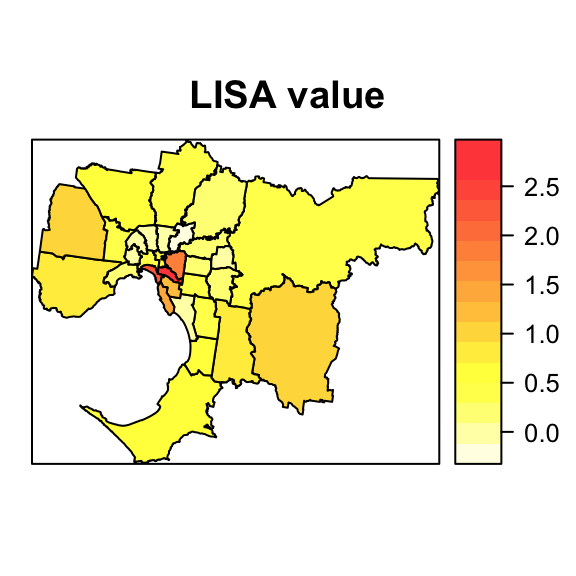
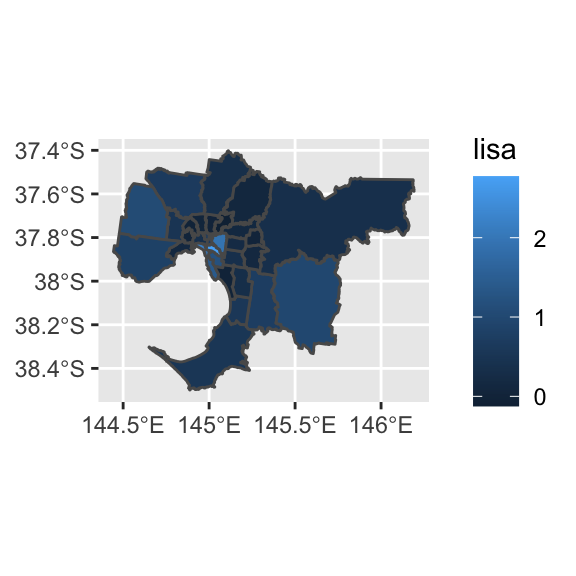
Dec 4th

diff --git a/Week5.html b/Week5.html
@@ -326,7 +326,6 @@ $(document).ready(function () {
 <li><a href="#create-weight-matrix"><span class="toc-section-number">2</span> Create Weight Matrix</a></li>
 <li><a href="#morans-i-test"><span class="toc-section-number">3</span> Moran’s I test</a></li>
 <li><a href="#lisa"><span class="toc-section-number">4</span> LISA</a></li>
-<li><a href="#practice-columbus-data"><span class="toc-section-number">5</span> Practice: Columbus Data</a></li>
 </ul>
 </div>
 
@@ -345,19 +344,18 @@ $(document).ready(function () {
 </div>
 <div id="create-weight-matrix" class="section level1">
 <h1><span class="header-section-number">2</span> Create Weight Matrix</h1>
-<p>The dataset <em>gmel2</em> is from Week 3 Lab, and it can be downloaded at <a href="https://github.com/TedChu/90122Lab/tree/master/datasets" class="uri">https://github.com/TedChu/90122Lab/tree/master/datasets</a>.</p>
-<pre class="r"><code>library(rgdal)
-library(spdep)
+<p>The dataset is <em>gmel2</em>, and it can be downloaded at <a href="https://github.com/TedChu/90122Lab/tree/master/datasets" class="uri">https://github.com/TedChu/90122Lab/tree/master/datasets</a>.</p>
+<pre class="r"><code>library(spdep)
 load(&quot;datasets/gmel2.Rdata&quot;)</code></pre>
 <p>R function <em>poly2nb</em> produces a spatial weight matrix from a SpatialPolygons(DataFrame) object.</p>
 <pre class="r"><code>## Convert gmel2 to SpatialPolygonsDataFrame, since the following packages require SpatialPolygonsDataFrame
-gmel2 = as(gmel2, &quot;Spatial&quot;)
-Wqueen = poly2nb(gmel2)
-Wrook = poly2nb(gmel2, queen=FALSE)
-plot(gmel2,border=&quot;grey60&quot;, axes=TRUE)
-plot(Wqueen, coordinates(gmel2), pch=19, cex=0.6, add=TRUE,col=&quot;red&quot;)
-plot(Wrook, coordinates(gmel2), pch=19, cex=0.6, add=TRUE)</code></pre>
-<p><img src="Week5_files/figure-html/unnamed-chunk-2-1.png" width="288" style="display: block; margin: auto;" /></p>
+gmel.sp = as(gmel2, &quot;Spatial&quot;)
+Wqueen = poly2nb(gmel.sp)
+Wrook = poly2nb(gmel.sp, queen=FALSE)
+plot(gmel.sp,border=&quot;grey60&quot;, axes=TRUE)
+plot(Wqueen, coordinates(gmel.sp), pch=19, cex=0.6, add=TRUE,col=&quot;red&quot;)
+plot(Wrook, coordinates(gmel.sp), pch=19, cex=0.6, add=TRUE)</code></pre>
+<p><img src="Week5_files/figure-html/unnamed-chunk-2-1.png" width="480" style="display: block; margin: auto;" /></p>
 <ul>
 <li>There are three potential class for spatial weight matrix: <em>nb</em> (neighborhood) class, <em>mat</em> (matrix) class, and <em>listw</em> class.
 <ul>
@@ -425,50 +423,21 @@ round(head(resI),3)</code></pre>
 </ul>
 <p> </p>
 <p>Next, some visualisation for the above results.</p>
-<pre class="r"><code>gmellisa = gmel2
-gmellisa@data = data.frame(gmellisa@data, lisa=resI[,1], pvalue=resI[,5])
+<pre class="r"><code>####
+gmellisa = gmel2
+gmellisa$lisa = resI[,1]
+gmellisa$pvalue = resI[,5]
 ### Spatial plots with LISA value
-### rev function is used to assign darker color to higher values. 
-spplot(gmellisa, &quot;lisa&quot;, col.regions = rev(heat.colors(16,alpha=0.8)),main=&quot;LISA value&quot;)</code></pre>
+library(ggplot2)
+ggplot() + geom_sf(data=gmellisa, aes(fill = lisa))</code></pre>
 <p><img src="Week5_files/figure-html/unnamed-chunk-5-1.png" width="288" style="display: block; margin: auto;" /></p>
-<pre class="r"><code>### Spatial plots with p values
-spplot(gmellisa, &quot;pvalue&quot;, col.regions = heat.colors(16,alpha=0.8),main=&quot;p value&quot;)</code></pre>
+<pre class="r"><code>ggplot() + geom_sf(data=gmellisa, aes(fill = pvalue))</code></pre>
 <p><img src="Week5_files/figure-html/unnamed-chunk-5-2.png" width="288" style="display: block; margin: auto;" /></p>
-<pre class="r"><code>### Wants to see threshold 0.05, 0.10 for p vlaues
-library(RColorBrewer)     # for function brew.pal
-brks=c(0.00,0.05,0.10,0.5,0.8,1.00)
-pal=brewer.pal(5, &quot;OrRd&quot;) # we select 5 colors from the palette
-spplot(gmellisa, &quot;pvalue&quot;, col.regions=pal, at = brks,  main = &quot;p value&quot;)</code></pre>
-<p><img src="Week5_files/figure-html/unnamed-chunk-5-3.png" width="288" style="display: block; margin: auto;" /></p>
 <p>Suppose we want to know which LGAs have significant local spatial autocorrelation (<span class="math inline">\(\alpha = 0.05\)</span>).</p>
-<pre class="r"><code>gmellisa@data[gmellisa$pvalue &lt; 0.05, c(1,3,7,8)]</code></pre>
-<pre><code>##                  name.x           name.y  inc      lisa
-## 2       City of Bayside      Bayside (C) 1826 1.4065075
-## 3    City of Boroondara   Boroondara (C) 1893 1.9270316
-## 5         City of Casey        Casey (C) 1342 0.7355848
-## 9     City of Glen Eira    Glen Eira (C) 1445 1.2066751
-## 18       City of Melton       Melton (C) 1363 1.0519791
-## 22 City of Port Phillip Port Phillip (C) 1672 2.1583959
-## 23  City of Stonnington  Stonnington (C) 1722 2.7722551
-## 27        City of Yarra        Yarra (C) 1680 0.6708980</code></pre>
+<pre class="r"><code>gmellisa$name2[gmellisa$pvalue &lt; 0.05]</code></pre>
+<pre><code>## [1] &quot;Bayside&quot;      &quot;Boroondara&quot;   &quot;Casey&quot;        &quot;Glen Eira&quot;    &quot;Melton&quot;      
+## [6] &quot;Port Phillip&quot; &quot;Stonnington&quot;  &quot;Yarra&quot;</code></pre>
 <p>They all have positive LISA values. If you want to formally test whether there are positive local autocorrelation, you will need to change <em>alternative</em> to <em>greater</em>.</p>
-</div>
-<div id="practice-columbus-data" class="section level1">
-<h1><span class="header-section-number">5</span> Practice: Columbus Data</h1>
-<p>If you have time, you can analyze the following Columbus data</p>
-<p>The dataset is about 49 neighbourhoods in Columbus, OH in Year 1980, more informaiton can be found in R by <em>?columbus</em>.</p>
-<p>It is essential a shapefile, and the difference from olinda data is columbus data is already stored in R. Thus, to read the colubus data, you use <em>system.file</em> instead.</p>
-<p>After read the shapefile, you will get a SpatialPolygonsDataFrame object <em>columbus</em>.</p>
-<pre class="r"><code>columbus &lt;- readOGR(system.file(&quot;shapes/columbus.shp&quot;, package=&quot;spData&quot;)[1])</code></pre>
-<pre><code>## OGR data source with driver: ESRI Shapefile 
-## Source: &quot;/Library/Frameworks/R.framework/Versions/3.6/Resources/library/spData/shapes/columbus.shp&quot;, layer: &quot;columbus&quot;
-## with 49 features
-## It has 20 fields
-## Integer64 fields read as strings:  COLUMBUS_ COLUMBUS_I POLYID</code></pre>
-<pre class="r"><code>plot(columbus, border=&quot;black&quot;,main=&quot;Neigbhoods of Columbus City&quot;)</code></pre>
-<p><img src="Week5_files/figure-html/unnamed-chunk-7-1.png" width="768" style="display: block; margin: auto;" /></p>
-<pre class="r"><code>spplot(columbus, &quot;CRIME&quot;, col.regions = rev(heat.colors(20,alpha=0.8)))</code></pre>
-<p><img src="Week5_files/figure-html/unnamed-chunk-7-2.png" width="768" style="display: block; margin: auto;" /></p>
 </div>
 
 
